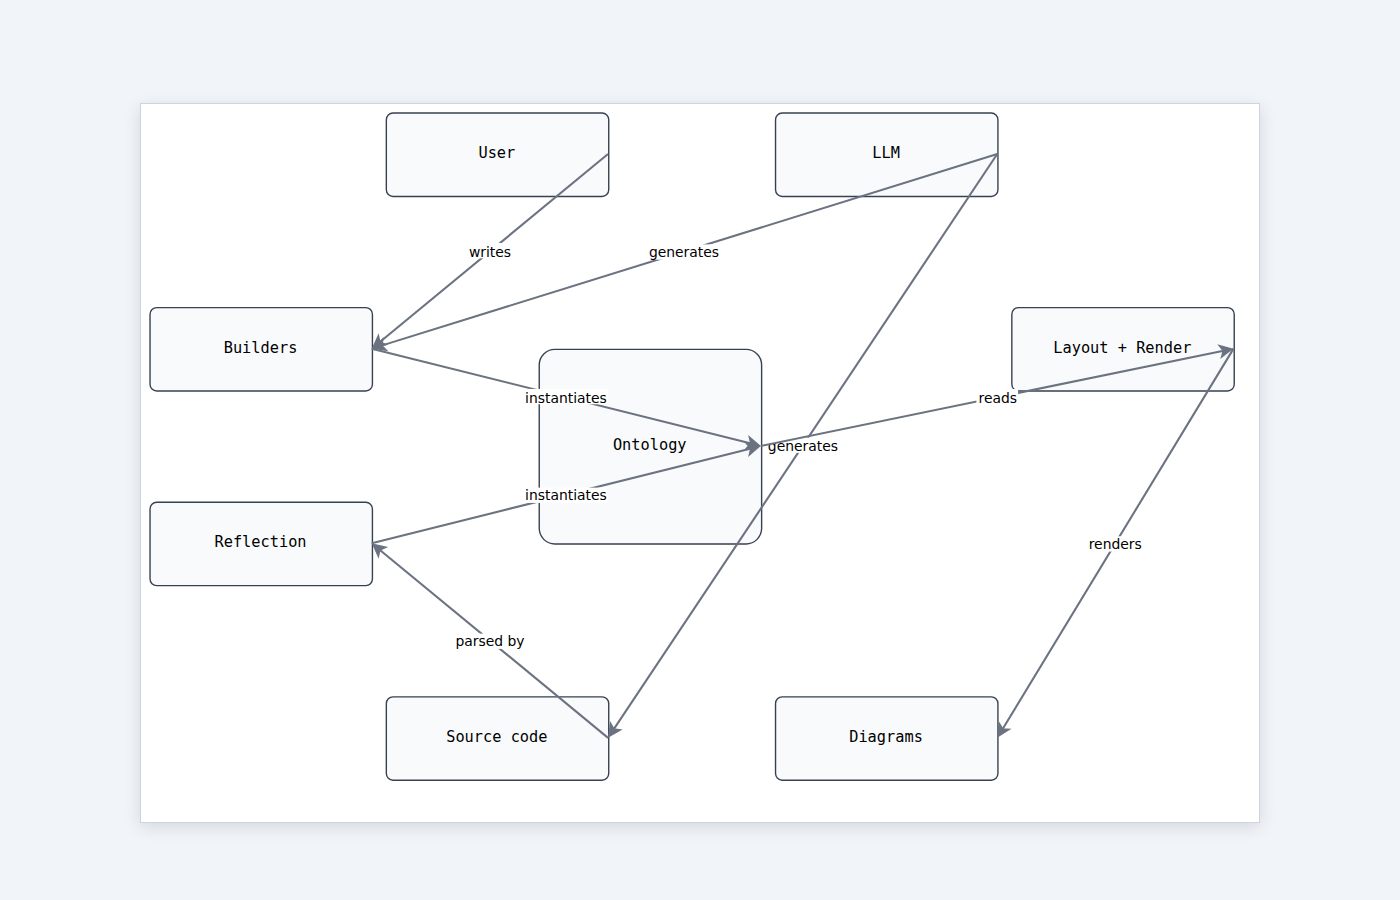
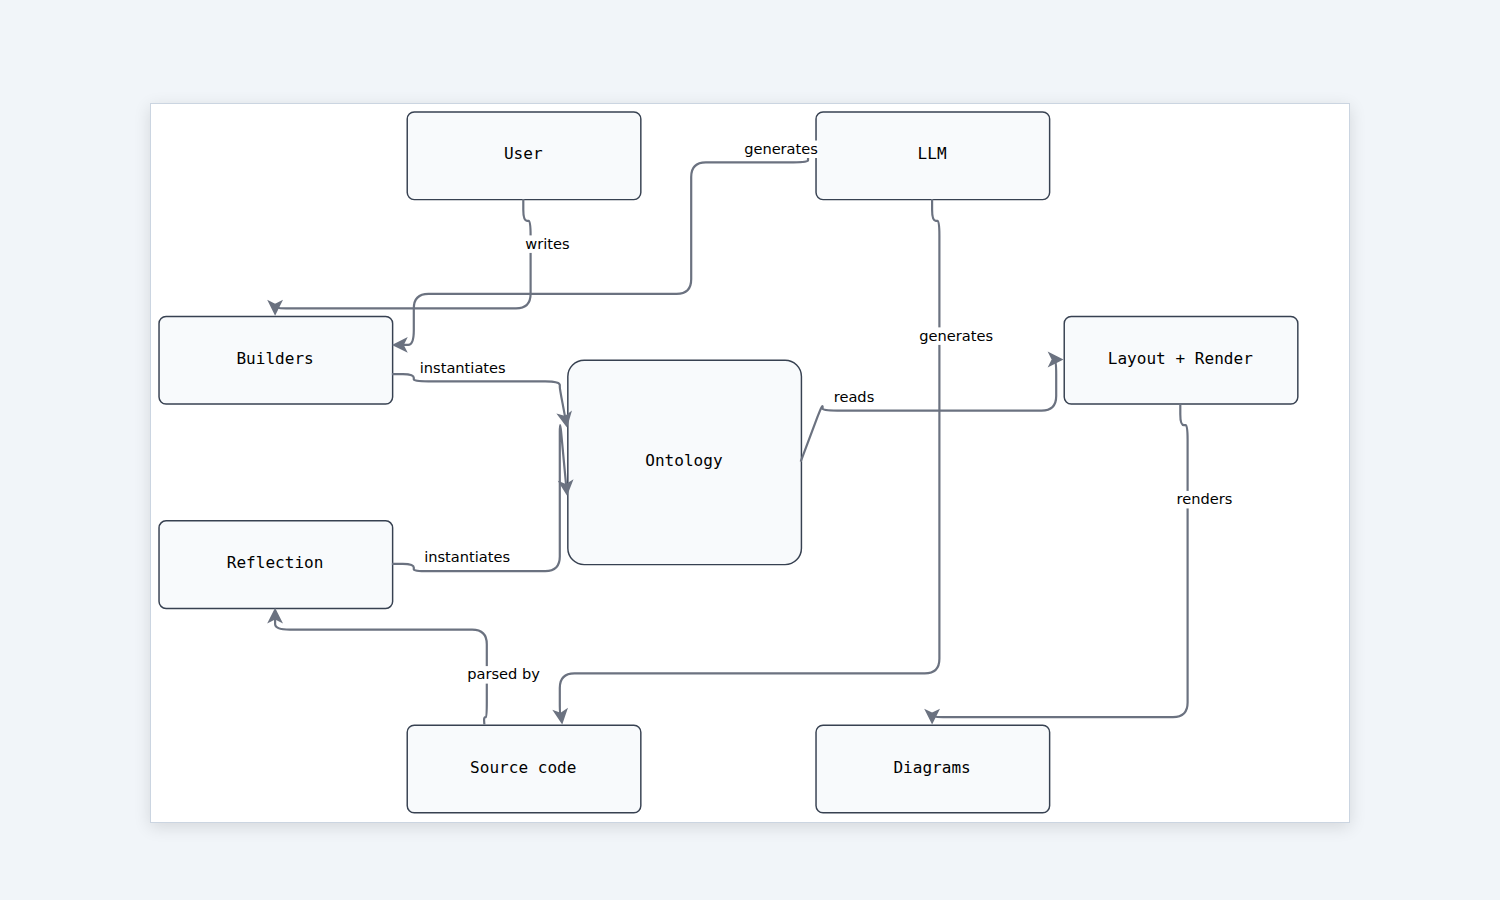
layout: hub strategy reuses the shared A* routing pipeline
The first cut of strategy='hub' computed positions and then returned
empty edge routes, so draw.io drew naive straight lines through the
hub box. That bypassed everything we already built — port assignment,
group/connector obstacle zones, A* routing — and looked like a
regression next to the layered strategy.

Extract finalize_routing() in _layout.py: takes a placement and runs
the strategy-agnostic part of the pipeline (per-node port-aware
heights, group label zones as obstacles, A* edge routing). Skips
Sugiyama-only steps (rank-based connector classification,
swap-and-reroute) that don't apply to non-layered strategies.

_hub_layout._place computes positions, compute_hub_layout delegates
routing to finalize_routing. Hub strategy now gets the same routing
quality as layered. Regenerated docs/demos/img/hub.png and
docs/reflection/img/loops.png — both show orthogonal port-aware
routes instead of straight lines through the hub.

diff --git a/docs/demos/html/hub.html b/docs/demos/html/hub.html
@@ -22,7 +22,7 @@ html, body { height: 100%; background: #f1f5f9; font-family: sans-serif; }
 <div id="diagram"></div>
 <script src="https://viewer.diagrams.net/js/viewer-static.min.js"></script>
 <script>
-var xmlStr = "<mxGraphModel dx=\"1422\" dy=\"762\" grid=\"1\" gridSize=\"10\" guides=\"1\" tooltips=\"1\" connect=\"1\" arrows=\"1\" fold=\"1\" page=\"1\" pageScale=\"1\" pageWidth=\"1169\" pageHeight=\"827\" math=\"0\" shadow=\"0\"><root><mxCell id=\"0\" /><mxCell id=\"1\" parent=\"0\" /><mxCell id=\"trace-layer\" parent=\"0\" value=\"Traces\" visible=\"0\" /><mxCell id=\"legend-layer\" parent=\"0\" value=\"Legend\" visible=\"0\" /><mxCell id=\"2\" value=\"Analyst\" style=\"rounded=1;whiteSpace=wrap;html=1;arcSize=8;fillColor=#f8fafc;strokeColor=#374151;fontFamily=monospace;fontSize=11;\" vertex=\"1\" parent=\"1\"><mxGeometry x=\"270\" y=\"100\" width=\"160\" height=\"60\" as=\"geometry\" /></mxCell><mxCell id=\"3\" value=\"AI Assistant\" style=\"rounded=1;whiteSpace=wrap;html=1;arcSize=8;fillColor=#f8fafc;strokeColor=#374151;fontFamily=monospace;fontSize=11;\" vertex=\"1\" parent=\"1\"><mxGeometry x=\"550\" y=\"100\" width=\"160\" height=\"60\" as=\"geometry\" /></mxCell><mxCell id=\"4\" value=\"Web events\" style=\"rounded=1;whiteSpace=wrap;html=1;arcSize=8;fillColor=#f8fafc;strokeColor=#374151;fontFamily=monospace;fontSize=11;\" vertex=\"1\" parent=\"1\"><mxGeometry x=\"100\" y=\"240\" width=\"160\" height=\"60\" as=\"geometry\" /></mxCell><mxCell id=\"5\" value=\"Billing events\" style=\"rounded=1;whiteSpace=wrap;html=1;arcSize=8;fillColor=#f8fafc;strokeColor=#374151;fontFamily=monospace;fontSize=11;\" vertex=\"1\" parent=\"1\"><mxGeometry x=\"100\" y=\"380\" width=\"160\" height=\"60\" as=\"geometry\" /></mxCell><mxCell id=\"6\" value=\"Support tickets\" style=\"rounded=1;whiteSpace=wrap;html=1;arcSize=8;fillColor=#f8fafc;strokeColor=#374151;fontFamily=monospace;fontSize=11;\" vertex=\"1\" parent=\"1\"><mxGeometry x=\"100\" y=\"520\" width=\"160\" height=\"60\" as=\"geometry\" /></mxCell><mxCell id=\"7\" value=\"Customer 360\" style=\"rounded=1;whiteSpace=wrap;html=1;arcSize=8;fillColor=#f8fafc;strokeColor=#374151;fontFamily=monospace;fontSize=11;\" vertex=\"1\" parent=\"1\"><mxGeometry x=\"380\" y=\"340\" width=\"160\" height=\"140\" as=\"geometry\" /></mxCell><mxCell id=\"8\" value=\"Dashboards\" style=\"rounded=1;whiteSpace=wrap;html=1;arcSize=8;fillColor=#f8fafc;strokeColor=#374151;fontFamily=monospace;fontSize=11;\" vertex=\"1\" parent=\"1\"><mxGeometry x=\"720\" y=\"240\" width=\"160\" height=\"60\" as=\"geometry\" /></mxCell><mxCell id=\"9\" value=\"Cohort exports\" style=\"rounded=1;whiteSpace=wrap;html=1;arcSize=8;fillColor=#f8fafc;strokeColor=#374151;fontFamily=monospace;fontSize=11;\" vertex=\"1\" parent=\"1\"><mxGeometry x=\"720\" y=\"380\" width=\"160\" height=\"60\" as=\"geometry\" /></mxCell><mxCell id=\"10\" value=\"Data warehouse\" style=\"rounded=1;whiteSpace=wrap;html=1;arcSize=8;fillColor=#f8fafc;strokeColor=#374151;fontFamily=monospace;fontSize=11;\" vertex=\"1\" parent=\"1\"><mxGeometry x=\"270\" y=\"660\" width=\"160\" height=\"60\" as=\"geometry\" /></mxCell><mxCell id=\"11\" value=\"Email campaigns\" style=\"rounded=1;whiteSpace=wrap;html=1;arcSize=8;fillColor=#f8fafc;strokeColor=#374151;fontFamily=monospace;fontSize=11;\" vertex=\"1\" parent=\"1\"><mxGeometry x=\"550\" y=\"660\" width=\"160\" height=\"60\" as=\"geometry\" /></mxCell><mxCell id=\"12\" value=\"queries\" style=\"rounded=1;exitX=0.5;exitY=0.5;exitDx=0;exitDy=0;entryX=0.5;entryY=0.5;entryDx=0;entryDy=0;strokeColor=#6b7280;strokeWidth=1.5;fontSize=10;\" edge=\"1\" source=\"2\" target=\"8\" parent=\"1\"><mxGeometry relative=\"1\" as=\"geometry\" /></mxCell><mxCell id=\"13\" value=\"reads schema\" style=\"rounded=1;exitX=0.5;exitY=0.5;exitDx=0;exitDy=0;entryX=0.5;entryY=0.5;entryDx=0;entryDy=0;strokeColor=#6b7280;strokeWidth=1.5;fontSize=10;\" edge=\"1\" source=\"3\" target=\"7\" parent=\"1\"><mxGeometry relative=\"1\" as=\"geometry\" /></mxCell><mxCell id=\"14\" value=\"appends\" style=\"rounded=1;exitX=0.5;exitY=0.5;exitDx=0;exitDy=0;entryX=0.5;entryY=0.5;entryDx=0;entryDy=0;strokeColor=#6b7280;strokeWidth=1.5;fontSize=10;\" edge=\"1\" source=\"4\" target=\"7\" parent=\"1\"><mxGeometry relative=\"1\" as=\"geometry\" /></mxCell><mxCell id=\"15\" value=\"upserts\" style=\"rounded=1;exitX=0.5;exitY=0.5;exitDx=0;exitDy=0;entryX=0.5;entryY=0.5;entryDx=0;entryDy=0;strokeColor=#6b7280;strokeWidth=1.5;fontSize=10;\" edge=\"1\" source=\"5\" target=\"7\" parent=\"1\"><mxGeometry relative=\"1\" as=\"geometry\" /></mxCell><mxCell id=\"16\" value=\"appends\" style=\"rounded=1;exitX=0.5;exitY=0.5;exitDx=0;exitDy=0;entryX=0.5;entryY=0.5;entryDx=0;entryDy=0;strokeColor=#6b7280;strokeWidth=1.5;fontSize=10;\" edge=\"1\" source=\"6\" target=\"7\" parent=\"1\"><mxGeometry relative=\"1\" as=\"geometry\" /></mxCell><mxCell id=\"17\" value=\"exposes\" style=\"rounded=1;exitX=0.5;exitY=0.5;exitDx=0;exitDy=0;entryX=0.5;entryY=0.5;entryDx=0;entryDy=0;strokeColor=#6b7280;strokeWidth=1.5;fontSize=10;\" edge=\"1\" source=\"7\" target=\"8\" parent=\"1\"><mxGeometry relative=\"1\" as=\"geometry\" /></mxCell><mxCell id=\"18\" value=\"materialises\" style=\"rounded=1;exitX=0.5;exitY=0.5;exitDx=0;exitDy=0;entryX=0.5;entryY=0.5;entryDx=0;entryDy=0;strokeColor=#6b7280;strokeWidth=1.5;fontSize=10;\" edge=\"1\" source=\"7\" target=\"9\" parent=\"1\"><mxGeometry relative=\"1\" as=\"geometry\" /></mxCell><mxCell id=\"19\" value=\"targets\" style=\"rounded=1;exitX=0.5;exitY=0.5;exitDx=0;exitDy=0;entryX=0.5;entryY=0.5;entryDx=0;entryDy=0;strokeColor=#6b7280;strokeWidth=1.5;fontSize=10;\" edge=\"1\" source=\"9\" target=\"11\" parent=\"1\"><mxGeometry relative=\"1\" as=\"geometry\" /></mxCell><mxCell id=\"20\" value=\"persists\" style=\"rounded=1;exitX=0.5;exitY=0.5;exitDx=0;exitDy=0;entryX=0.5;entryY=0.5;entryDx=0;entryDy=0;strokeColor=#6b7280;strokeWidth=1.5;fontSize=10;\" edge=\"1\" source=\"8\" target=\"10\" parent=\"1\"><mxGeometry relative=\"1\" as=\"geometry\" /></mxCell></root></mxGraphModel>";
+var xmlStr = "<mxGraphModel dx=\"1422\" dy=\"762\" grid=\"1\" gridSize=\"10\" guides=\"1\" tooltips=\"1\" connect=\"1\" arrows=\"1\" fold=\"1\" page=\"1\" pageScale=\"1\" pageWidth=\"1169\" pageHeight=\"827\" math=\"0\" shadow=\"0\"><root><mxCell id=\"0\" /><mxCell id=\"1\" parent=\"0\" /><mxCell id=\"trace-layer\" parent=\"0\" value=\"Traces\" visible=\"0\" /><mxCell id=\"legend-layer\" parent=\"0\" value=\"Legend\" visible=\"0\" /><mxCell id=\"2\" value=\"Analyst\" style=\"rounded=1;whiteSpace=wrap;html=1;arcSize=8;fillColor=#f8fafc;strokeColor=#374151;fontFamily=monospace;fontSize=11;\" vertex=\"1\" parent=\"1\"><mxGeometry x=\"270\" y=\"100\" width=\"160\" height=\"60\" as=\"geometry\" /></mxCell><mxCell id=\"3\" value=\"AI Assistant\" style=\"rounded=1;whiteSpace=wrap;html=1;arcSize=8;fillColor=#f8fafc;strokeColor=#374151;fontFamily=monospace;fontSize=11;\" vertex=\"1\" parent=\"1\"><mxGeometry x=\"550\" y=\"100\" width=\"160\" height=\"60\" as=\"geometry\" /></mxCell><mxCell id=\"4\" value=\"Web events\" style=\"rounded=1;whiteSpace=wrap;html=1;arcSize=8;fillColor=#f8fafc;strokeColor=#374151;fontFamily=monospace;fontSize=11;\" vertex=\"1\" parent=\"1\"><mxGeometry x=\"100\" y=\"240\" width=\"160\" height=\"60\" as=\"geometry\" /></mxCell><mxCell id=\"5\" value=\"Billing events\" style=\"rounded=1;whiteSpace=wrap;html=1;arcSize=8;fillColor=#f8fafc;strokeColor=#374151;fontFamily=monospace;fontSize=11;\" vertex=\"1\" parent=\"1\"><mxGeometry x=\"100\" y=\"380\" width=\"160\" height=\"60\" as=\"geometry\" /></mxCell><mxCell id=\"6\" value=\"Support tickets\" style=\"rounded=1;whiteSpace=wrap;html=1;arcSize=8;fillColor=#f8fafc;strokeColor=#374151;fontFamily=monospace;fontSize=11;\" vertex=\"1\" parent=\"1\"><mxGeometry x=\"100\" y=\"520\" width=\"160\" height=\"60\" as=\"geometry\" /></mxCell><mxCell id=\"7\" value=\"Customer 360\" style=\"rounded=1;whiteSpace=wrap;html=1;arcSize=8;fillColor=#f8fafc;strokeColor=#374151;fontFamily=monospace;fontSize=11;\" vertex=\"1\" parent=\"1\"><mxGeometry x=\"380\" y=\"340\" width=\"160\" height=\"140\" as=\"geometry\" /></mxCell><mxCell id=\"8\" value=\"Dashboards\" style=\"rounded=1;whiteSpace=wrap;html=1;arcSize=8;fillColor=#f8fafc;strokeColor=#374151;fontFamily=monospace;fontSize=11;\" vertex=\"1\" parent=\"1\"><mxGeometry x=\"720\" y=\"240\" width=\"160\" height=\"60\" as=\"geometry\" /></mxCell><mxCell id=\"9\" value=\"Cohort exports\" style=\"rounded=1;whiteSpace=wrap;html=1;arcSize=8;fillColor=#f8fafc;strokeColor=#374151;fontFamily=monospace;fontSize=11;\" vertex=\"1\" parent=\"1\"><mxGeometry x=\"720\" y=\"380\" width=\"160\" height=\"60\" as=\"geometry\" /></mxCell><mxCell id=\"10\" value=\"Data warehouse\" style=\"rounded=1;whiteSpace=wrap;html=1;arcSize=8;fillColor=#f8fafc;strokeColor=#374151;fontFamily=monospace;fontSize=11;\" vertex=\"1\" parent=\"1\"><mxGeometry x=\"270\" y=\"660\" width=\"160\" height=\"60\" as=\"geometry\" /></mxCell><mxCell id=\"11\" value=\"Email campaigns\" style=\"rounded=1;whiteSpace=wrap;html=1;arcSize=8;fillColor=#f8fafc;strokeColor=#374151;fontFamily=monospace;fontSize=11;\" vertex=\"1\" parent=\"1\"><mxGeometry x=\"550\" y=\"660\" width=\"160\" height=\"60\" as=\"geometry\" /></mxCell><mxCell id=\"12\" value=\"\" style=\"rounded=1;exitX=1.0;exitY=0.5;exitDx=0;exitDy=0;entryX=0.0;entryY=0.3333;entryDx=0;entryDy=0;strokeColor=#6b7280;strokeWidth=1.5;fontSize=10;\" edge=\"1\" source=\"2\" target=\"8\" parent=\"1\"><mxGeometry relative=\"1\" as=\"geometry\"><Array as=\"points\"><mxPoint x=\"445\" y=\"130\" /><mxPoint x=\"445\" y=\"135\" /><mxPoint x=\"515\" y=\"135\" /><mxPoint x=\"515\" y=\"265\" /><mxPoint x=\"715\" y=\"265\" /><mxPoint x=\"715\" y=\"260\" /></Array></mxGeometry></mxCell><mxCell id=\"10012\" value=\"queries\" style=\"edgeLabel;html=1;align=center;verticalAlign=middle;resizable=0;points=[];fontSize=10;\" vertex=\"1\" connectable=\"0\" parent=\"12\"><mxGeometry x=\"-0.8256\" y=\"0\" relative=\"1\" as=\"geometry\"><mxPoint x=\"0\" y=\"-10\" as=\"offset\" /></mxGeometry></mxCell><mxCell id=\"13\" value=\"\" style=\"rounded=1;exitX=0.5;exitY=1.0;exitDx=0;exitDy=0;entryX=0.5;entryY=0.0;entryDx=0;entryDy=0;strokeColor=#6b7280;strokeWidth=1.5;fontSize=10;\" edge=\"1\" source=\"3\" target=\"7\" parent=\"1\"><mxGeometry relative=\"1\" as=\"geometry\"><Array as=\"points\"><mxPoint x=\"630\" y=\"175\" /><mxPoint x=\"635\" y=\"175\" /><mxPoint x=\"635\" y=\"335\" /><mxPoint x=\"460\" y=\"335\" /></Array></mxGeometry></mxCell><mxCell id=\"10013\" value=\"reads schema\" style=\"edgeLabel;html=1;align=center;verticalAlign=middle;resizable=0;points=[];fontSize=10;\" vertex=\"1\" connectable=\"0\" parent=\"13\"><mxGeometry x=\"-0.6667\" y=\"0\" relative=\"1\" as=\"geometry\"><mxPoint x=\"10\" y=\"0\" as=\"offset\" /></mxGeometry></mxCell><mxCell id=\"14\" value=\"\" style=\"rounded=1;exitX=1.0;exitY=0.5;exitDx=0;exitDy=0;entryX=0.0;entryY=0.3333;entryDx=0;entryDy=0;strokeColor=#6b7280;strokeWidth=1.5;fontSize=10;\" edge=\"1\" source=\"4\" target=\"7\" parent=\"1\"><mxGeometry relative=\"1\" as=\"geometry\"><Array as=\"points\"><mxPoint x=\"275\" y=\"270\" /><mxPoint x=\"275\" y=\"275\" /><mxPoint x=\"375\" y=\"275\" /><mxPoint x=\"375\" y=\"360\" /></Array></mxGeometry></mxCell><mxCell id=\"10014\" value=\"appends\" style=\"edgeLabel;html=1;align=center;verticalAlign=middle;resizable=0;points=[];fontSize=10;\" vertex=\"1\" connectable=\"0\" parent=\"14\"><mxGeometry x=\"-0.5714\" y=\"0\" relative=\"1\" as=\"geometry\"><mxPoint x=\"0\" y=\"-10\" as=\"offset\" /></mxGeometry></mxCell><mxCell id=\"15\" value=\"\" style=\"rounded=1;exitX=1.0;exitY=0.5;exitDx=0;exitDy=0;entryX=0.0;entryY=0.6667;entryDx=0;entryDy=0;strokeColor=#6b7280;strokeWidth=1.5;fontSize=10;\" edge=\"1\" source=\"5\" target=\"7\" parent=\"1\"><mxGeometry relative=\"1\" as=\"geometry\"><Array as=\"points\"><mxPoint x=\"275\" y=\"410\" /><mxPoint x=\"275\" y=\"415\" /><mxPoint x=\"375\" y=\"415\" /><mxPoint x=\"375\" y=\"380\" /></Array></mxGeometry></mxCell><mxCell id=\"10015\" value=\"upserts\" style=\"edgeLabel;html=1;align=center;verticalAlign=middle;resizable=0;points=[];fontSize=10;\" vertex=\"1\" connectable=\"0\" parent=\"15\"><mxGeometry x=\"-0.4375\" y=\"0\" relative=\"1\" as=\"geometry\"><mxPoint x=\"0\" y=\"-10\" as=\"offset\" /></mxGeometry></mxCell><mxCell id=\"16\" value=\"\" style=\"rounded=1;exitX=0.5;exitY=0.0;exitDx=0;exitDy=0;entryX=0.5;entryY=1.0;entryDx=0;entryDy=0;strokeColor=#6b7280;strokeWidth=1.5;fontSize=10;\" edge=\"1\" source=\"6\" target=\"7\" parent=\"1\"><mxGeometry relative=\"1\" as=\"geometry\"><Array as=\"points\"><mxPoint x=\"180\" y=\"515\" /><mxPoint x=\"185\" y=\"515\" /><mxPoint x=\"185\" y=\"475\" /><mxPoint x=\"465\" y=\"475\" /><mxPoint x=\"465\" y=\"415\" /><mxPoint x=\"460\" y=\"415\" /></Array></mxGeometry></mxCell><mxCell id=\"10016\" value=\"appends\" style=\"edgeLabel;html=1;align=center;verticalAlign=middle;resizable=0;points=[];fontSize=10;\" vertex=\"1\" connectable=\"0\" parent=\"16\"><mxGeometry x=\"-0.8537\" y=\"0\" relative=\"1\" as=\"geometry\"><mxPoint x=\"10\" y=\"0\" as=\"offset\" /></mxGeometry></mxCell><mxCell id=\"17\" value=\"\" style=\"rounded=1;exitX=1.0;exitY=0.3333;exitDx=0;exitDy=0;entryX=0.0;entryY=0.6667;entryDx=0;entryDy=0;strokeColor=#6b7280;strokeWidth=1.5;fontSize=10;\" edge=\"1\" source=\"7\" target=\"8\" parent=\"1\"><mxGeometry relative=\"1\" as=\"geometry\"><Array as=\"points\"><mxPoint x=\"555\" y=\"360\" /><mxPoint x=\"555\" y=\"365\" /><mxPoint x=\"685\" y=\"365\" /><mxPoint x=\"685\" y=\"285\" /><mxPoint x=\"715\" y=\"285\" /><mxPoint x=\"715\" y=\"280\" /></Array></mxGeometry></mxCell><mxCell id=\"10017\" value=\"exposes\" style=\"edgeLabel;html=1;align=center;verticalAlign=middle;resizable=0;points=[];fontSize=10;\" vertex=\"1\" connectable=\"0\" parent=\"17\"><mxGeometry x=\"-0.6111\" y=\"0\" relative=\"1\" as=\"geometry\"><mxPoint x=\"0\" y=\"-10\" as=\"offset\" /></mxGeometry></mxCell><mxCell id=\"18\" value=\"\" style=\"rounded=1;exitX=1.0;exitY=0.6667;exitDx=0;exitDy=0;entryX=0.0;entryY=0.5;entryDx=0;entryDy=0;strokeColor=#6b7280;strokeWidth=1.5;fontSize=10;\" edge=\"1\" source=\"7\" target=\"9\" parent=\"1\"><mxGeometry relative=\"1\" as=\"geometry\"><Array as=\"points\"><mxPoint x=\"555\" y=\"380\" /><mxPoint x=\"555\" y=\"385\" /><mxPoint x=\"715\" y=\"385\" /><mxPoint x=\"715\" y=\"410\" /></Array></mxGeometry></mxCell><mxCell id=\"10018\" value=\"materialises\" style=\"edgeLabel;html=1;align=center;verticalAlign=middle;resizable=0;points=[];fontSize=10;\" vertex=\"1\" connectable=\"0\" parent=\"18\"><mxGeometry x=\"-0.0476\" y=\"0\" relative=\"1\" as=\"geometry\"><mxPoint x=\"0\" y=\"-10\" as=\"offset\" /></mxGeometry></mxCell><mxCell id=\"19\" value=\"\" style=\"rounded=1;exitX=0.5;exitY=1.0;exitDx=0;exitDy=0;entryX=0.5;entryY=0.0;entryDx=0;entryDy=0;strokeColor=#6b7280;strokeWidth=1.5;fontSize=10;\" edge=\"1\" source=\"9\" target=\"11\" parent=\"1\"><mxGeometry relative=\"1\" as=\"geometry\"><Array as=\"points\"><mxPoint x=\"800\" y=\"455\" /><mxPoint x=\"805\" y=\"455\" /><mxPoint x=\"805\" y=\"655\" /><mxPoint x=\"630\" y=\"655\" /></Array></mxGeometry></mxCell><mxCell id=\"10019\" value=\"targets\" style=\"edgeLabel;html=1;align=center;verticalAlign=middle;resizable=0;points=[];fontSize=10;\" vertex=\"1\" connectable=\"0\" parent=\"19\"><mxGeometry x=\"-0.65\" y=\"0\" relative=\"1\" as=\"geometry\"><mxPoint x=\"10\" y=\"0\" as=\"offset\" /></mxGeometry></mxCell><mxCell id=\"20\" value=\"\" style=\"rounded=1;exitX=0.5;exitY=1.0;exitDx=0;exitDy=0;entryX=0.5;entryY=0.0;entryDx=0;entryDy=0;strokeColor=#6b7280;strokeWidth=1.5;fontSize=10;\" edge=\"1\" source=\"8\" target=\"10\" parent=\"1\"><mxGeometry relative=\"1\" as=\"geometry\"><Array as=\"points\"><mxPoint x=\"800\" y=\"315\" /><mxPoint x=\"805\" y=\"315\" /><mxPoint x=\"805\" y=\"345\" /><mxPoint x=\"575\" y=\"345\" /><mxPoint x=\"575\" y=\"625\" /><mxPoint x=\"355\" y=\"625\" /><mxPoint x=\"355\" y=\"655\" /><mxPoint x=\"350\" y=\"655\" /></Array></mxGeometry></mxCell><mxCell id=\"10020\" value=\"persists\" style=\"edgeLabel;html=1;align=center;verticalAlign=middle;resizable=0;points=[];fontSize=10;\" vertex=\"1\" connectable=\"0\" parent=\"20\"><mxGeometry x=\"-0.9329\" y=\"0\" relative=\"1\" as=\"geometry\"><mxPoint x=\"10\" y=\"0\" as=\"offset\" /></mxGeometry></mxCell></root></mxGraphModel>";
 var config = {"nav": true, "resize": false, "toolbar": "zoom layers lightbox", "fit": true, "page": false};
 var container = document.getElementById('diagram');
 var viewerMode = "cdn";

diff --git a/docs/reflection/loops.html b/docs/reflection/loops.html
@@ -22,7 +22,7 @@ html, body { height: 100%; background: #f1f5f9; font-family: sans-serif; }
 <div id="diagram"></div>
 <script src="https://viewer.diagrams.net/js/viewer-static.min.js"></script>
 <script>
-var xmlStr = "<mxGraphModel dx=\"1422\" dy=\"762\" grid=\"1\" gridSize=\"10\" guides=\"1\" tooltips=\"1\" connect=\"1\" arrows=\"1\" fold=\"1\" page=\"1\" pageScale=\"1\" pageWidth=\"1169\" pageHeight=\"827\" math=\"0\" shadow=\"0\"><root><mxCell id=\"0\" /><mxCell id=\"1\" parent=\"0\" /><mxCell id=\"trace-layer\" parent=\"0\" value=\"Traces\" visible=\"0\" /><mxCell id=\"2\" value=\"User\" style=\"rounded=1;whiteSpace=wrap;html=1;arcSize=8;fillColor=#f8fafc;strokeColor=#374151;fontFamily=monospace;fontSize=11;\" vertex=\"1\" parent=\"1\"><mxGeometry x=\"270\" y=\"100\" width=\"160\" height=\"60\" as=\"geometry\" /></mxCell><mxCell id=\"3\" value=\"LLM\" style=\"rounded=1;whiteSpace=wrap;html=1;arcSize=8;fillColor=#f8fafc;strokeColor=#374151;fontFamily=monospace;fontSize=11;\" vertex=\"1\" parent=\"1\"><mxGeometry x=\"550\" y=\"100\" width=\"160\" height=\"60\" as=\"geometry\" /></mxCell><mxCell id=\"4\" value=\"Builders\" style=\"rounded=1;whiteSpace=wrap;html=1;arcSize=8;fillColor=#f8fafc;strokeColor=#374151;fontFamily=monospace;fontSize=11;\" vertex=\"1\" parent=\"1\"><mxGeometry x=\"100\" y=\"240\" width=\"160\" height=\"60\" as=\"geometry\" /></mxCell><mxCell id=\"5\" value=\"Reflection\" style=\"rounded=1;whiteSpace=wrap;html=1;arcSize=8;fillColor=#f8fafc;strokeColor=#374151;fontFamily=monospace;fontSize=11;\" vertex=\"1\" parent=\"1\"><mxGeometry x=\"100\" y=\"380\" width=\"160\" height=\"60\" as=\"geometry\" /></mxCell><mxCell id=\"6\" value=\"Ontology\" style=\"rounded=1;whiteSpace=wrap;html=1;arcSize=8;fillColor=#f8fafc;strokeColor=#374151;fontFamily=monospace;fontSize=11;\" vertex=\"1\" parent=\"1\"><mxGeometry x=\"380\" y=\"270\" width=\"160\" height=\"140\" as=\"geometry\" /></mxCell><mxCell id=\"7\" value=\"Layout + Render\" style=\"rounded=1;whiteSpace=wrap;html=1;arcSize=8;fillColor=#f8fafc;strokeColor=#374151;fontFamily=monospace;fontSize=11;\" vertex=\"1\" parent=\"1\"><mxGeometry x=\"720\" y=\"240\" width=\"160\" height=\"60\" as=\"geometry\" /></mxCell><mxCell id=\"8\" value=\"Source code\" style=\"rounded=1;whiteSpace=wrap;html=1;arcSize=8;fillColor=#f8fafc;strokeColor=#374151;fontFamily=monospace;fontSize=11;\" vertex=\"1\" parent=\"1\"><mxGeometry x=\"270\" y=\"520\" width=\"160\" height=\"60\" as=\"geometry\" /></mxCell><mxCell id=\"9\" value=\"Diagrams\" style=\"rounded=1;whiteSpace=wrap;html=1;arcSize=8;fillColor=#f8fafc;strokeColor=#374151;fontFamily=monospace;fontSize=11;\" vertex=\"1\" parent=\"1\"><mxGeometry x=\"550\" y=\"520\" width=\"160\" height=\"60\" as=\"geometry\" /></mxCell><mxCell id=\"10\" value=\"writes\" style=\"rounded=1;exitX=0.5;exitY=0.5;exitDx=0;exitDy=0;entryX=0.5;entryY=0.5;entryDx=0;entryDy=0;strokeColor=#6b7280;strokeWidth=1.5;fontSize=10;\" edge=\"1\" source=\"2\" target=\"4\" parent=\"1\"><mxGeometry relative=\"1\" as=\"geometry\" /></mxCell><mxCell id=\"11\" value=\"generates\" style=\"rounded=1;exitX=0.5;exitY=0.5;exitDx=0;exitDy=0;entryX=0.5;entryY=0.5;entryDx=0;entryDy=0;strokeColor=#6b7280;strokeWidth=1.5;fontSize=10;\" edge=\"1\" source=\"3\" target=\"4\" parent=\"1\"><mxGeometry relative=\"1\" as=\"geometry\" /></mxCell><mxCell id=\"12\" value=\"instantiates\" style=\"rounded=1;exitX=0.5;exitY=0.5;exitDx=0;exitDy=0;entryX=0.5;entryY=0.5;entryDx=0;entryDy=0;strokeColor=#6b7280;strokeWidth=1.5;fontSize=10;\" edge=\"1\" source=\"4\" target=\"6\" parent=\"1\"><mxGeometry relative=\"1\" as=\"geometry\" /></mxCell><mxCell id=\"13\" value=\"generates\" style=\"rounded=1;exitX=0.5;exitY=0.5;exitDx=0;exitDy=0;entryX=0.5;entryY=0.5;entryDx=0;entryDy=0;strokeColor=#6b7280;strokeWidth=1.5;fontSize=10;\" edge=\"1\" source=\"3\" target=\"8\" parent=\"1\"><mxGeometry relative=\"1\" as=\"geometry\" /></mxCell><mxCell id=\"14\" value=\"parsed by\" style=\"rounded=1;exitX=0.5;exitY=0.5;exitDx=0;exitDy=0;entryX=0.5;entryY=0.5;entryDx=0;entryDy=0;strokeColor=#6b7280;strokeWidth=1.5;fontSize=10;\" edge=\"1\" source=\"8\" target=\"5\" parent=\"1\"><mxGeometry relative=\"1\" as=\"geometry\" /></mxCell><mxCell id=\"15\" value=\"instantiates\" style=\"rounded=1;exitX=0.5;exitY=0.5;exitDx=0;exitDy=0;entryX=0.5;entryY=0.5;entryDx=0;entryDy=0;strokeColor=#6b7280;strokeWidth=1.5;fontSize=10;\" edge=\"1\" source=\"5\" target=\"6\" parent=\"1\"><mxGeometry relative=\"1\" as=\"geometry\" /></mxCell><mxCell id=\"16\" value=\"reads\" style=\"rounded=1;exitX=0.5;exitY=0.5;exitDx=0;exitDy=0;entryX=0.5;entryY=0.5;entryDx=0;entryDy=0;strokeColor=#6b7280;strokeWidth=1.5;fontSize=10;\" edge=\"1\" source=\"6\" target=\"7\" parent=\"1\"><mxGeometry relative=\"1\" as=\"geometry\" /></mxCell><mxCell id=\"17\" value=\"renders\" style=\"rounded=1;exitX=0.5;exitY=0.5;exitDx=0;exitDy=0;entryX=0.5;entryY=0.5;entryDx=0;entryDy=0;strokeColor=#6b7280;strokeWidth=1.5;fontSize=10;\" edge=\"1\" source=\"7\" target=\"9\" parent=\"1\"><mxGeometry relative=\"1\" as=\"geometry\" /></mxCell></root></mxGraphModel>";
+var xmlStr = "<mxGraphModel dx=\"1422\" dy=\"762\" grid=\"1\" gridSize=\"10\" guides=\"1\" tooltips=\"1\" connect=\"1\" arrows=\"1\" fold=\"1\" page=\"1\" pageScale=\"1\" pageWidth=\"1169\" pageHeight=\"827\" math=\"0\" shadow=\"0\"><root><mxCell id=\"0\" /><mxCell id=\"1\" parent=\"0\" /><mxCell id=\"trace-layer\" parent=\"0\" value=\"Traces\" visible=\"0\" /><mxCell id=\"legend-layer\" parent=\"0\" value=\"Legend\" visible=\"0\" /><mxCell id=\"2\" value=\"User\" style=\"rounded=1;whiteSpace=wrap;html=1;arcSize=8;fillColor=#f8fafc;strokeColor=#374151;fontFamily=monospace;fontSize=11;\" vertex=\"1\" parent=\"1\"><mxGeometry x=\"270\" y=\"100\" width=\"160\" height=\"60\" as=\"geometry\" /></mxCell><mxCell id=\"3\" value=\"LLM\" style=\"rounded=1;whiteSpace=wrap;html=1;arcSize=8;fillColor=#f8fafc;strokeColor=#374151;fontFamily=monospace;fontSize=11;\" vertex=\"1\" parent=\"1\"><mxGeometry x=\"550\" y=\"100\" width=\"160\" height=\"60\" as=\"geometry\" /></mxCell><mxCell id=\"4\" value=\"Builders\" style=\"rounded=1;whiteSpace=wrap;html=1;arcSize=8;fillColor=#f8fafc;strokeColor=#374151;fontFamily=monospace;fontSize=11;\" vertex=\"1\" parent=\"1\"><mxGeometry x=\"100\" y=\"240\" width=\"160\" height=\"60\" as=\"geometry\" /></mxCell><mxCell id=\"5\" value=\"Reflection\" style=\"rounded=1;whiteSpace=wrap;html=1;arcSize=8;fillColor=#f8fafc;strokeColor=#374151;fontFamily=monospace;fontSize=11;\" vertex=\"1\" parent=\"1\"><mxGeometry x=\"100\" y=\"380\" width=\"160\" height=\"60\" as=\"geometry\" /></mxCell><mxCell id=\"6\" value=\"Ontology\" style=\"rounded=1;whiteSpace=wrap;html=1;arcSize=8;fillColor=#f8fafc;strokeColor=#374151;fontFamily=monospace;fontSize=11;\" vertex=\"1\" parent=\"1\"><mxGeometry x=\"380\" y=\"270\" width=\"160\" height=\"140\" as=\"geometry\" /></mxCell><mxCell id=\"7\" value=\"Layout + Render\" style=\"rounded=1;whiteSpace=wrap;html=1;arcSize=8;fillColor=#f8fafc;strokeColor=#374151;fontFamily=monospace;fontSize=11;\" vertex=\"1\" parent=\"1\"><mxGeometry x=\"720\" y=\"240\" width=\"160\" height=\"60\" as=\"geometry\" /></mxCell><mxCell id=\"8\" value=\"Source code\" style=\"rounded=1;whiteSpace=wrap;html=1;arcSize=8;fillColor=#f8fafc;strokeColor=#374151;fontFamily=monospace;fontSize=11;\" vertex=\"1\" parent=\"1\"><mxGeometry x=\"270\" y=\"520\" width=\"160\" height=\"60\" as=\"geometry\" /></mxCell><mxCell id=\"9\" value=\"Diagrams\" style=\"rounded=1;whiteSpace=wrap;html=1;arcSize=8;fillColor=#f8fafc;strokeColor=#374151;fontFamily=monospace;fontSize=11;\" vertex=\"1\" parent=\"1\"><mxGeometry x=\"550\" y=\"520\" width=\"160\" height=\"60\" as=\"geometry\" /></mxCell><mxCell id=\"10\" value=\"\" style=\"rounded=1;exitX=0.5;exitY=1.0;exitDx=0;exitDy=0;entryX=0.5;entryY=0.0;entryDx=0;entryDy=0;strokeColor=#6b7280;strokeWidth=1.5;fontSize=10;\" edge=\"1\" source=\"2\" target=\"4\" parent=\"1\"><mxGeometry relative=\"1\" as=\"geometry\"><Array as=\"points\"><mxPoint x=\"350\" y=\"175\" /><mxPoint x=\"355\" y=\"175\" /><mxPoint x=\"355\" y=\"235\" /><mxPoint x=\"180\" y=\"235\" /></Array></mxGeometry></mxCell><mxCell id=\"10010\" value=\"writes\" style=\"edgeLabel;html=1;align=center;verticalAlign=middle;resizable=0;points=[];fontSize=10;\" vertex=\"1\" connectable=\"0\" parent=\"10\"><mxGeometry x=\"-0.7308\" y=\"0\" relative=\"1\" as=\"geometry\"><mxPoint x=\"10\" y=\"0\" as=\"offset\" /></mxGeometry></mxCell><mxCell id=\"11\" value=\"\" style=\"rounded=1;exitX=0.0;exitY=0.5;exitDx=0;exitDy=0;entryX=1.0;entryY=0.3333;entryDx=0;entryDy=0;strokeColor=#6b7280;strokeWidth=1.5;fontSize=10;\" edge=\"1\" source=\"3\" target=\"4\" parent=\"1\"><mxGeometry relative=\"1\" as=\"geometry\"><Array as=\"points\"><mxPoint x=\"545\" y=\"130\" /><mxPoint x=\"545\" y=\"135\" /><mxPoint x=\"465\" y=\"135\" /><mxPoint x=\"465\" y=\"225\" /><mxPoint x=\"275\" y=\"225\" /><mxPoint x=\"275\" y=\"260\" /></Array></mxGeometry></mxCell><mxCell id=\"10011\" value=\"generates\" style=\"edgeLabel;html=1;align=center;verticalAlign=middle;resizable=0;points=[];fontSize=10;\" vertex=\"1\" connectable=\"0\" parent=\"11\"><mxGeometry x=\"-0.8571\" y=\"0\" relative=\"1\" as=\"geometry\"><mxPoint x=\"0\" y=\"-10\" as=\"offset\" /></mxGeometry></mxCell><mxCell id=\"12\" value=\"\" style=\"rounded=1;exitX=1.0;exitY=0.6667;exitDx=0;exitDy=0;entryX=0.0;entryY=0.3333;entryDx=0;entryDy=0;strokeColor=#6b7280;strokeWidth=1.5;fontSize=10;\" edge=\"1\" source=\"4\" target=\"6\" parent=\"1\"><mxGeometry relative=\"1\" as=\"geometry\"><Array as=\"points\"><mxPoint x=\"275\" y=\"280\" /><mxPoint x=\"275\" y=\"285\" /><mxPoint x=\"375\" y=\"285\" /><mxPoint x=\"375\" y=\"290\" /></Array></mxGeometry></mxCell><mxCell id=\"10012\" value=\"instantiates\" style=\"edgeLabel;html=1;align=center;verticalAlign=middle;resizable=0;points=[];fontSize=10;\" vertex=\"1\" connectable=\"0\" parent=\"12\"><mxGeometry x=\"-0.3077\" y=\"0\" relative=\"1\" as=\"geometry\"><mxPoint x=\"0\" y=\"-10\" as=\"offset\" /></mxGeometry></mxCell><mxCell id=\"13\" value=\"\" style=\"rounded=1;exitX=0.5;exitY=1.0;exitDx=0;exitDy=0;entryX=0.6667;entryY=0.0;entryDx=0;entryDy=0;strokeColor=#6b7280;strokeWidth=1.5;fontSize=10;\" edge=\"1\" source=\"3\" target=\"8\" parent=\"1\"><mxGeometry relative=\"1\" as=\"geometry\"><Array as=\"points\"><mxPoint x=\"630\" y=\"175\" /><mxPoint x=\"635\" y=\"175\" /><mxPoint x=\"635\" y=\"485\" /><mxPoint x=\"375\" y=\"485\" /><mxPoint x=\"375\" y=\"515\" /><mxPoint x=\"376\" y=\"515\" /></Array></mxGeometry></mxCell><mxCell id=\"10013\" value=\"generates\" style=\"edgeLabel;html=1;align=center;verticalAlign=middle;resizable=0;points=[];fontSize=10;\" vertex=\"1\" connectable=\"0\" parent=\"13\"><mxGeometry x=\"-0.6885\" y=\"0\" relative=\"1\" as=\"geometry\"><mxPoint x=\"10\" y=\"0\" as=\"offset\" /></mxGeometry></mxCell><mxCell id=\"14\" value=\"\" style=\"rounded=1;exitX=0.3333;exitY=0.0;exitDx=0;exitDy=0;entryX=0.5;entryY=1.0;entryDx=0;entryDy=0;strokeColor=#6b7280;strokeWidth=1.5;fontSize=10;\" edge=\"1\" source=\"8\" target=\"5\" parent=\"1\"><mxGeometry relative=\"1\" as=\"geometry\"><Array as=\"points\"><mxPoint x=\"323\" y=\"515\" /><mxPoint x=\"325\" y=\"515\" /><mxPoint x=\"325\" y=\"455\" /><mxPoint x=\"180\" y=\"455\" /></Array></mxGeometry></mxCell><mxCell id=\"10014\" value=\"parsed by\" style=\"edgeLabel;html=1;align=center;verticalAlign=middle;resizable=0;points=[];fontSize=10;\" vertex=\"1\" connectable=\"0\" parent=\"14\"><mxGeometry x=\"-0.674\" y=\"0\" relative=\"1\" as=\"geometry\"><mxPoint x=\"10\" y=\"0\" as=\"offset\" /></mxGeometry></mxCell><mxCell id=\"15\" value=\"\" style=\"rounded=1;exitX=1.0;exitY=0.5;exitDx=0;exitDy=0;entryX=0.0;entryY=0.6667;entryDx=0;entryDy=0;strokeColor=#6b7280;strokeWidth=1.5;fontSize=10;\" edge=\"1\" source=\"5\" target=\"6\" parent=\"1\"><mxGeometry relative=\"1\" as=\"geometry\"><Array as=\"points\"><mxPoint x=\"275\" y=\"410\" /><mxPoint x=\"275\" y=\"415\" /><mxPoint x=\"375\" y=\"415\" /><mxPoint x=\"375\" y=\"310\" /></Array></mxGeometry></mxCell><mxCell id=\"10015\" value=\"instantiates\" style=\"edgeLabel;html=1;align=center;verticalAlign=middle;resizable=0;points=[];fontSize=10;\" vertex=\"1\" connectable=\"0\" parent=\"15\"><mxGeometry x=\"-0.6087\" y=\"0\" relative=\"1\" as=\"geometry\"><mxPoint x=\"0\" y=\"-10\" as=\"offset\" /></mxGeometry></mxCell><mxCell id=\"16\" value=\"\" style=\"rounded=1;exitX=1.0;exitY=0.5;exitDx=0;exitDy=0;entryX=0.0;entryY=0.5;entryDx=0;entryDy=0;strokeColor=#6b7280;strokeWidth=1.5;fontSize=10;\" edge=\"1\" source=\"6\" target=\"7\" parent=\"1\"><mxGeometry relative=\"1\" as=\"geometry\"><Array as=\"points\"><mxPoint x=\"555\" y=\"300\" /><mxPoint x=\"555\" y=\"305\" /><mxPoint x=\"715\" y=\"305\" /><mxPoint x=\"715\" y=\"270\" /></Array></mxGeometry></mxCell><mxCell id=\"10016\" value=\"reads\" style=\"edgeLabel;html=1;align=center;verticalAlign=middle;resizable=0;points=[];fontSize=10;\" vertex=\"1\" connectable=\"0\" parent=\"16\"><mxGeometry x=\"-0.4545\" y=\"0\" relative=\"1\" as=\"geometry\"><mxPoint x=\"0\" y=\"-10\" as=\"offset\" /></mxGeometry></mxCell><mxCell id=\"17\" value=\"\" style=\"rounded=1;exitX=0.5;exitY=1.0;exitDx=0;exitDy=0;entryX=0.5;entryY=0.0;entryDx=0;entryDy=0;strokeColor=#6b7280;strokeWidth=1.5;fontSize=10;\" edge=\"1\" source=\"7\" target=\"9\" parent=\"1\"><mxGeometry relative=\"1\" as=\"geometry\"><Array as=\"points\"><mxPoint x=\"800\" y=\"315\" /><mxPoint x=\"805\" y=\"315\" /><mxPoint x=\"805\" y=\"515\" /><mxPoint x=\"630\" y=\"515\" /></Array></mxGeometry></mxCell><mxCell id=\"10017\" value=\"renders\" style=\"edgeLabel;html=1;align=center;verticalAlign=middle;resizable=0;points=[];fontSize=10;\" vertex=\"1\" connectable=\"0\" parent=\"17\"><mxGeometry x=\"-0.65\" y=\"0\" relative=\"1\" as=\"geometry\"><mxPoint x=\"10\" y=\"0\" as=\"offset\" /></mxGeometry></mxCell></root></mxGraphModel>";
 var config = {"nav": true, "resize": false, "toolbar": "zoom layers lightbox", "fit": true, "page": false};
 var container = document.getElementById('diagram');
 var viewerMode = "cdn";

diff --git a/sysatlas/_hub_layout.py b/sysatlas/_hub_layout.py
@@ -1,37 +1,25 @@
-"""Hub-and-spoke layout for read/write-loop architectures.
+"""Hub-and-spoke placement for read/write-loop architectures.
 
-One central component (the hub) is surrounded by four regions:
+This module only computes node positions. Edge routing (A*, port
+assignment, obstacle avoidance, label placement) is delegated to the
+strategy-agnostic `_layout.finalize_routing` so the hub strategy gets
+the same routing quality as the layered strategy without duplicating
+work.
 
-    ┌──────── interfaces (top) ────────┐
-    │                                   │
-    │   ┌── write ──┐    ┌── read ──┐   │
-    │   │ source 1 │ →  │ consumer │   │
-    │   │ source 2 │ →  │   ...    │   │
-    │   └──────────┘    └──────────┘   │
-    │            ↘ HUB ↙                │
-    │   ┌─── external (bottom) ───┐    │
-    │   └─────────────────────────┘    │
-    └───────────────────────────────────┘
-
-Components are assigned to a region by their `layer` value. Reserved
-layer names (case-sensitive):
+Region assignment by `Component.layer`:
 
     "interfaces"  → top band, horizontal stack
     "write"       → left column, vertical stack (writes into hub)
-    "hub"         → centre, single component expected
+    "hub"         → centre, single component expected (rendered taller)
     "read"        → right column, vertical stack (reads from hub)
     "external"    → bottom band, horizontal stack
-
-Edges are drawn as straight orthogonal segments between region anchors.
-No A* routing; the hub strategy assumes the diagram is small enough
-(bounded-complexity per view) that simple routing is sufficient.
 """
 from __future__ import annotations
 
 from collections import defaultdict
 
-NODE_W = 160
-NODE_H = 60
+from sysatlas._layout import NODE_W, NODE_H, finalize_routing
+
 _GAP_X = 120
 _GAP_Y = 80
 _MARGIN = 100
@@ -40,13 +28,15 @@ _HUB_W = 220
 _HUB_H = 140
 
 
-def compute_hub_layout(
-    nodes: dict[str, dict],
-    edges: list[dict],
-    layer_order: list[str],
-    debug: bool = False,
-) -> tuple[dict[str, tuple[int, int]], dict[tuple[str, str], dict], dict[str, int]]:
-    """Place components in hub-and-spoke regions; return (pos, routes, node_heights)."""
+def _spread(xs_centre: int, names: list[str], gap: int = _GAP_X) -> list[int]:
+    if not names:
+        return []
+    total = len(names) * NODE_W + (len(names) - 1) * gap
+    start = xs_centre - total // 2
+    return [start + i * (NODE_W + gap) for i in range(len(names))]
+
+
+def _place(nodes: dict[str, dict]) -> tuple[dict[str, tuple[int, int]], dict[str, int]]:
     by_layer: dict[str, list[str]] = defaultdict(list)
     for n, data in nodes.items():
         by_layer[data.get("layer") or ""].append(n)
@@ -57,9 +47,7 @@ def compute_hub_layout(
     reads      = by_layer.get("read", [])
     externals  = by_layer.get("external", [])
 
-    n_writes = max(1, len(writes))
-    n_reads  = max(1, len(reads))
-    rows_mid = max(n_writes, n_reads)
+    rows_mid = max(1, len(writes), len(reads))
     mid_band_h = rows_mid * NODE_H + (rows_mid - 1) * _GAP_Y
 
     cx = _MARGIN + max(
@@ -77,43 +65,40 @@ def compute_hub_layout(
     pos: dict[str, tuple[int, int]] = {}
     node_heights: dict[str, int] = {}
 
-    def _spread(xs_centre: int, names: list[str], gap: int = _GAP_X) -> list[int]:
-        if not names:
-            return []
-        total = len(names) * NODE_W + (len(names) - 1) * gap
-        start = xs_centre - total // 2
-        return [start + i * (NODE_W + gap) for i in range(len(names))]
-
     for x, name in zip(_spread(cx, interfaces), interfaces):
         pos[name] = (x, top_y)
-
     for x, name in zip(_spread(cx, externals), externals):
         pos[name] = (x, bot_y)
 
     write_x = cx - (_HUB_W // 2 + _GAP_X + NODE_W)
     for i, name in enumerate(writes):
-        y = mid_top + i * (NODE_H + _GAP_Y)
-        pos[name] = (write_x, y)
+        pos[name] = (write_x, mid_top + i * (NODE_H + _GAP_Y))
 
     read_x = cx + _HUB_W // 2 + _GAP_X
     for i, name in enumerate(reads):
-        y = mid_top + i * (NODE_H + _GAP_Y)
-        pos[name] = (read_x, y)
+        pos[name] = (read_x, mid_top + i * (NODE_H + _GAP_Y))
 
     if hubs:
         hub_x = cx - _HUB_W // 2
         pos[hubs[0]] = (hub_x, hub_y)
         node_heights[hubs[0]] = _HUB_H
-        # extra hubs (shouldn't happen, but tolerate) stack below
         for k, name in enumerate(hubs[1:], start=1):
             pos[name] = (hub_x, hub_y + k * (_HUB_H + _GAP_Y))
             node_heights[name] = _HUB_H
 
-    routes: dict[tuple[str, str], dict] = {}
-    for e in edges:
-        s, t = e["source"], e["target"]
-        if s in pos and t in pos:
-            routes[(s, t)] = {"points": [], "exit_x": 0.5, "exit_y": 0.5,
-                              "entry_x": 0.5, "entry_y": 0.5}
+    return pos, node_heights
 
+
+def compute_hub_layout(
+    nodes: dict[str, dict],
+    edges: list[dict],
+    layer_order: list[str],
+    debug: bool = False,
+) -> tuple[dict[str, tuple[int, int]], dict[tuple[str, str], dict], dict[str, int]]:
+    """Place nodes hub-and-spoke, then route edges with the shared A* pipeline."""
+    pos, hub_heights = _place(nodes)
+    routes, node_heights = finalize_routing(pos, nodes, edges,
+                                            layer_order=layer_order, debug=debug)
+    # Hub component's taller height overrides the port-based default.
+    node_heights.update(hub_heights)
     return pos, routes, node_heights

diff --git a/sysatlas/_layout.py b/sysatlas/_layout.py
@@ -107,6 +107,49 @@ def compute_layout(
     return pos, routes, node_heights
 
 
+def finalize_routing(
+    pos: dict[str, tuple[int, int]],
+    nodes: dict[str, dict],
+    edges: list[dict],
+    layer_order: list[str] | None = None,
+    debug: bool = False,
+) -> tuple[dict[tuple[str, str], dict], dict[str, int]]:
+    """Strategy-agnostic post-placement pipeline.
+
+    Reuses what `compute_layout` already builds — port-aware node heights,
+    group label / connector obstacle zones, A* edge routing — so any
+    placement engine (layered, hub, future strategies) gets the same
+    routing quality without duplicating the work.
+
+    Skips Sugiyama-only steps (rank-based connector classification,
+    swap-and-reroute). Every edge between two placed nodes is treated
+    as a direct edge and routed with A*.
+    """
+    layer_order = layer_order or []
+    valid_edges: list[tuple[int, str, str]] = []
+    for i, e in enumerate(edges):
+        s, t = e["source"], e["target"]
+        if s in pos and t in pos and s != t:
+            valid_edges.append((i, s, t))
+
+    direct_edges_dicts = [{"source": s, "target": t} for _, s, t in valid_edges]
+    node_heights = compute_node_heights(direct_edges_dicts, pos, default_h=NODE_H)
+
+    label_zones = _group_label_zones(pos, nodes, layer_order, node_heights)
+    # No connector-glyph zones: non-Sugiyama strategies don't promote long
+    # spans to off-page connectors.
+    routes = route_edges(pos, (NODE_W, NODE_H), valid_edges,
+                         label_zones=label_zones,
+                         block_zones=[],
+                         node_heights=node_heights)
+
+    if debug:
+        print(f"\n── A* routed {len(valid_edges)} edges (hub/non-Sugiyama) ──")
+        _report_issues(pos, routes)
+
+    return routes, node_heights
+
+
 def _swap_and_reroute(pos, routes, layers, real_nodes, valid_edges, connector_edges, label_zones=None, node_heights=None, debug=False):
     """For each adjacent pair within each layer, try swapping their X positions.
     Re-route all edges with the new placement; keep the swap only if the cost